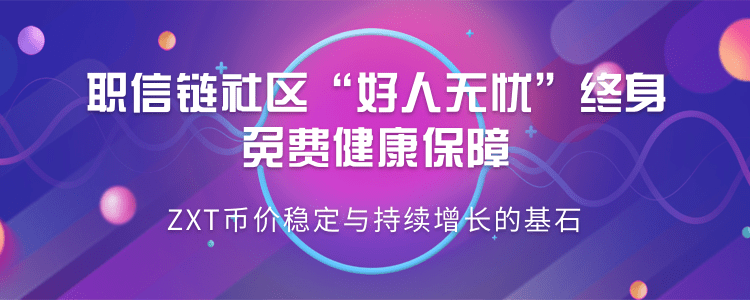
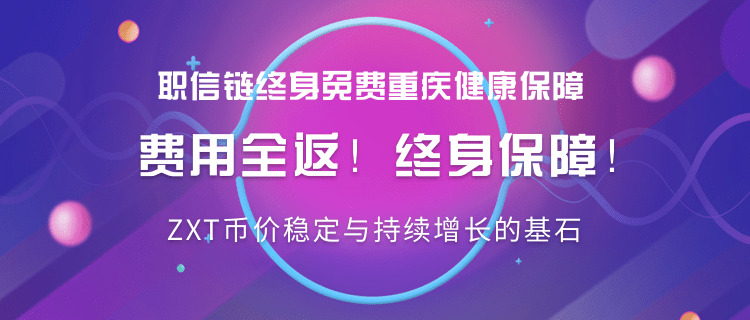
标题内容修改

diff --git a/zhixinchain-wap/find-details.html b/zhixinchain-wap/find-details.html
@@ -54,13 +54,19 @@
                         </tr>
                         <tr class="border-1">
                             <th style="width:.8rem;border:1px solid #979797;padding:0.1rem;">价格</th>
-                            <td style="width:1.3rem;border:1px solid #979797;padding:0.1rem;" ><p>1800元（按市价）并赠等值ZXT职信币，ZXT可以交易变现</p></td>
-                            <td style="width:1.3rem;border:1px solid #979797;padding:0.1rem;" ><p>5400元（按市价）并赠等值ZXT职信币，ZXT可以交易变现</p></td>
+                            <td style="width:1.3rem;border:1px solid #979797;padding:0.1rem;" ><p>1800元（按市价）并返还1800元等值ZXT职信币，ZXT可以交易变现</p></td>
+                            <td style="width:1.3rem;border:1px solid #979797;padding:0.1rem;" ><p>5400元（按市价）并返还5400元等值ZXT职信币，ZXT可以交易变现</p></td>
                         </tr>
                         <tr class="border-1">
                             <th style="width:.8rem;border:1px solid #979797;padding:0.1rem;" >保障金额</th>
                             <td style="width:1.3rem;border:1px solid #979797;padding:0.1rem;" ><p>10万人民币等值职信币</p></td>
                             <td style="width:1.3rem;border:1px solid #979797;padding:0.1rem;" ><p>30万人民币等值职信币</p></td>
+                        </tr>
+                        <tr class="border-1">
+                            <th style="width:.8rem;border:1px solid #979797;padding:0.1rem;" >保障范围</th>
+                            <td colspan="2" style="width:2.6rem;border:1px solid #979797;padding:0.1rem;" >
+                                <p>多达80种重大疾病</p>
+                            </td>
                         </tr>
                         <tr class="border-1">
                             <th style="width:.8rem;border:1px solid #979797;padding:0.1rem;" >受助人<br>条件</th>

diff --git a/zhixinchain-wap/investors-downloadapp2.html b/zhixinchain-wap/investors-downloadapp2.html
@@ -23,8 +23,9 @@
          <div class="component-find-index ">
              <div class="find-downlaod" style="width: 3.75rem;height: 6.8rem;">
                  <img src="public/images/find/download-logo.png" >
-                 <p>“好人无忧”终身健康保障</p>
-                 <p >加入即享：<br>终身<span style="color:#FB5C71;">10/30万元</span>健康保障+持续增值资产收益</p>
+                 <p>终身免费重疾健康保障</p>
+                 <p>费用全返！终身保障！</p>
+                 <p >10/30万保障  80种重疾  全家保障</p>
                  <p>用我的邀请码马上加入</p>
                  <div class="invite-number">1234</div>
 
@@ -72,19 +73,7 @@
                  });
              }
          })();
-//         function htmlFontSize(){
-//             var h = Math.max(document.documentElement.clientHeight, window.innerHeight || 0);
-//             var w = Math.max(document.documentElement.clientWidth, window.innerWidth || 0);
-//             var width = w > h ? h : w;
-//             width = width > 720 ? 720 : width
-//             var fz = ~~(width*100000/36)/10000
-//             document.getElementsByTagName("html")[0].style.cssText = 'font-size: ' + fz +"px";
-//             var realfz = ~~(+window.getComputedStyle(document.getElementsByTagName("html")[0]).fontSize.replace('px','')*10000)/10000
-//             if (fz !== realfz) {
-//                 document.getElementsByTagName("html")[0].style.cssText = 'font-size: ' + fz * (fz / realfz) +"px";
-//             }
-//         }
-//         htmlFontSize();
+
      </script>
 
 </body>

diff --git a/zhixinchain-wap/public/css/app-phone.css b/zhixinchain-wap/public/css/app-phone.css
@@ -103,7 +103,7 @@ html, body {
   .component-find-index .list-banner img {
     width: 3.4rem;
     max-width: 3.4rem;
-    height: 1.24rem;
+    height: 1.5rem;
     margin: 0 auto; }
 .component-find-index .list.model-data {
   position: relative;
@@ -590,13 +590,18 @@ html, body {
     margin: 0 auto;
     padding-top: 0.6rem; }
   .component-find-index .find-downlaod p:nth-of-type(1) {
-    font-size: 0.27rem;
+    font-size: 0.2rem;
     font-weight: 700;
     margin-top: 0.4rem; }
   .component-find-index .find-downlaod p:nth-of-type(2) {
+    font-size: 0.3rem;
+    font-weight: 700;
+    margin-top: 0.05rem;
+    letter-spacing: 1.3px; }
+  .component-find-index .find-downlaod p:nth-of-type(3) {
     font-size: 0.16rem;
     margin-top: 0.15rem; }
-  .component-find-index .find-downlaod p:nth-of-type(3) {
+  .component-find-index .find-downlaod p:nth-of-type(4) {
     font-size: 0.15rem;
     margin-top: 0.5rem; }
   .component-find-index .find-downlaod .invite-number {

diff --git a/zhixinchain-wap/public/css/find-index.scss b/zhixinchain-wap/public/css/find-index.scss
@@ -36,7 +36,7 @@
     img{
       width: 3.4rem;
       max-width: 3.4rem;
-      height: 1.24rem;
+      height: 1.5rem;
       margin: 0 auto;
     }
   }
@@ -672,15 +672,21 @@
       padding-top: 0.6rem;
     }
     p:nth-of-type(1){
-      font-size: 0.27rem;
+      font-size: 0.2rem;
       font-weight: 700;
       margin-top: 0.4rem;
     }
     p:nth-of-type(2){
+      font-size: 0.3rem;
+      font-weight: 700;
+      margin-top: 0.05rem;
+      letter-spacing: 1.3px;
+    }
+    p:nth-of-type(3){
       font-size: 0.16rem;
       margin-top: 0.15rem;
     }
-    p:nth-of-type(3){
+    p:nth-of-type(4){
       font-size: 0.15rem;
       margin-top: 0.5rem;
     }

diff --git a/zhixinchain-wap/find-list.html b/zhixinchain-wap/find-list.html
@@ -16,7 +16,7 @@
     <div class="wrap" id="app">
         <div class="component-find-index ">
             <div class="list-banner" style="width: 3.75rem; position: relative">
-                <img src="public/images/find/btn-rule.png" style="width:0.95rem;height: 0.26rem; position: absolute;top: 1rem;left: 50%;margin-left: -0.47rem;">
+                <img src="public/images/find/btn-rule.png" style="width:0.95rem;height: 0.26rem; position: absolute;top: 1.2rem;left: 50%;margin-left: -0.47rem;">
                 <img src="public/images/find/b1-b.png" >
             </div>
 
